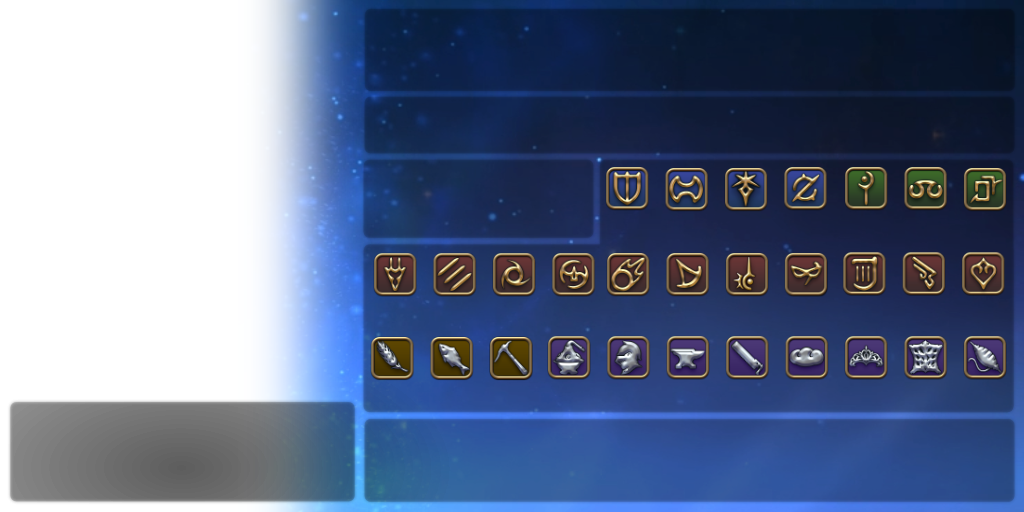
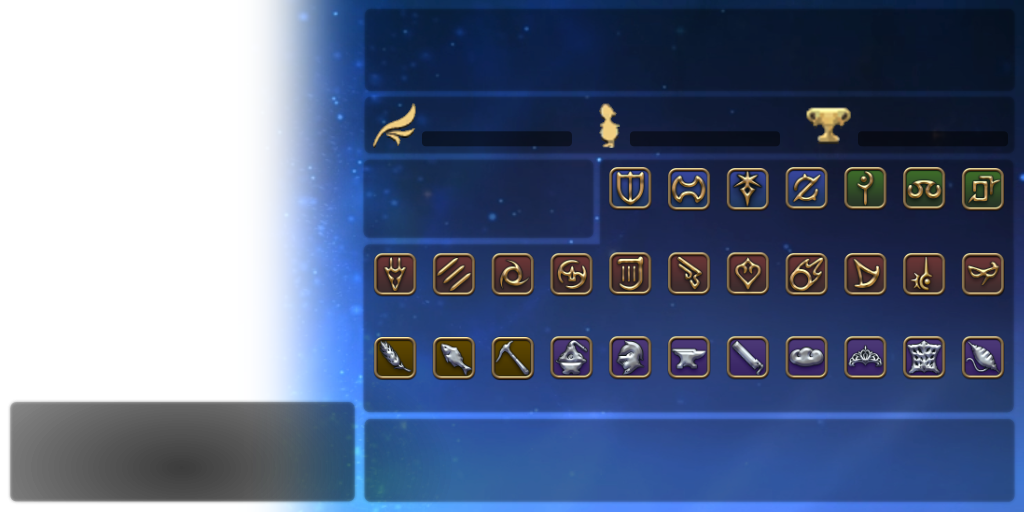
portrait progress

diff --git a/KupoNuts.Bot/Characters/PortraitDrawer.cs b/KupoNuts.Bot/Characters/PortraitDrawer.cs
@@ -2,6 +2,7 @@
 
 namespace KupoNuts.Bot.Characters
 {
+	using System;
 	using System.IO;
 	using System.Threading.Tasks;
 	using KupoNuts.Bot.Utils;
@@ -22,6 +23,13 @@ namespace KupoNuts.Bot.Characters
 			VerticalAlignment = VerticalAlignment.Center,
 		};
 
+		private static TextGraphicsOptions leftText = new TextGraphicsOptions()
+		{
+			Antialias = true,
+			HorizontalAlignment = HorizontalAlignment.Left,
+			VerticalAlignment = VerticalAlignment.Top,
+		};
+
 		private static FontCollection fonts = new FontCollection();
 		private static FontFamily axisRegular = fonts.Install(PathUtils.Current + "/Assets/Axis-Regular.ttf");
 		private static FontFamily optimuSemiBold = fonts.Install(PathUtils.Current + "/Assets/OptimusPrincepsSemiBold.ttf");
@@ -40,9 +48,46 @@ namespace KupoNuts.Bot.Characters
 			Image<Rgba32> finalImg = new Image<Rgba32>(1024, 512);
 			finalImg.Mutate(x => x.DrawImage(charImg, 1.0f));
 			finalImg.Mutate(x => x.DrawImage(overlayImg, 1.0f));
-			finalImg.Mutate(x => x.DrawText(centerText, character.Name, jupiterPro.CreateFont(45), Color.White, new PointF(182, 455)));
-			finalImg.Mutate(x => x.DrawText(centerText, character.Title?.Name, axisRegular.CreateFont(25), Color.White, new PointF(182, 420)));
-			finalImg.Mutate(x => x.DrawText(centerText, character.Race?.Name, axisRegular.CreateFont(22), Color.White, new PointF(182, 485)));
+
+			// Name / Bio
+			finalImg.Mutate(x => x.DrawTextAnySize(centerText, character.Name, optimuSemiBold, Color.White, new Rectangle(182, 450, 350, 50)));
+			finalImg.Mutate(x => x.DrawText(centerText, character.Title?.Name, axisRegular.CreateFont(22), Color.White, new PointF(182, 420)));
+			finalImg.Mutate(x => x.DrawText(centerText, character.Race?.Name + " (" + character.Tribe?.Name + ")", axisRegular.CreateFont(20), Color.White, new PointF(182, 485)));
+			finalImg.Mutate(x => x.DrawText(leftText, character.Bio, axisRegular.CreateFont(20), Color.White, new Rectangle(370, 425, 630, 74)));
+
+			// Jobs
+			finalImg.Mutate(x => x.DrawText(centerText, GetJob(character, Jobs.Paladin), axisRegular.CreateFont(20), Color.White, new PointF(631, 225)));
+			finalImg.Mutate(x => x.DrawText(centerText, GetJob(character, Jobs.Warrior), axisRegular.CreateFont(20), Color.White, new PointF(690, 225)));
+			finalImg.Mutate(x => x.DrawText(centerText, GetJob(character, Jobs.Darkknight), axisRegular.CreateFont(20), Color.White, new PointF(749, 225)));
+			finalImg.Mutate(x => x.DrawText(centerText, GetJob(character, Jobs.Gunbreaker), axisRegular.CreateFont(20), Color.White, new PointF(810, 225)));
+			finalImg.Mutate(x => x.DrawText(centerText, GetJob(character, Jobs.Whitemage), axisRegular.CreateFont(20), Color.White, new PointF(865, 225)));
+			finalImg.Mutate(x => x.DrawText(centerText, GetJob(character, Jobs.Scholar), axisRegular.CreateFont(20), Color.White, new PointF(925, 225)));
+			finalImg.Mutate(x => x.DrawText(centerText, GetJob(character, Jobs.Astrologian), axisRegular.CreateFont(20), Color.White, new PointF(985, 225)));
+			finalImg.Mutate(x => x.DrawText(centerText, GetJob(character, Jobs.Dragoon), axisRegular.CreateFont(20), Color.White, new PointF(395, 310)));
+			finalImg.Mutate(x => x.DrawText(centerText, GetJob(character, Jobs.Monk), axisRegular.CreateFont(20), Color.White, new PointF(454, 310)));
+			finalImg.Mutate(x => x.DrawText(centerText, GetJob(character, Jobs.Ninja), axisRegular.CreateFont(20), Color.White, new PointF(513, 310)));
+			finalImg.Mutate(x => x.DrawText(centerText, GetJob(character, Jobs.Samurai), axisRegular.CreateFont(20), Color.White, new PointF(572, 310)));
+			finalImg.Mutate(x => x.DrawText(centerText, GetJob(character, Jobs.Bard), axisRegular.CreateFont(20), Color.White, new PointF(631, 310)));
+			finalImg.Mutate(x => x.DrawText(centerText, GetJob(character, Jobs.Machinist), axisRegular.CreateFont(20), Color.White, new PointF(690, 310)));
+			finalImg.Mutate(x => x.DrawText(centerText, GetJob(character, Jobs.Dancer), axisRegular.CreateFont(20), Color.White, new PointF(749, 310)));
+			finalImg.Mutate(x => x.DrawText(centerText, GetJob(character, Jobs.Blackmage), axisRegular.CreateFont(20), Color.White, new PointF(810, 310)));
+			finalImg.Mutate(x => x.DrawText(centerText, GetJob(character, Jobs.Summoner), axisRegular.CreateFont(20), Color.White, new PointF(865, 310)));
+			finalImg.Mutate(x => x.DrawText(centerText, GetJob(character, Jobs.Redmage), axisRegular.CreateFont(20), Color.White, new PointF(925, 310)));
+			finalImg.Mutate(x => x.DrawText(centerText, GetJob(character, Jobs.Bluemage), axisRegular.CreateFont(20), Color.White, new PointF(985, 310)));
+			finalImg.Mutate(x => x.DrawText(centerText, GetJob(character, Jobs.Botanist), axisRegular.CreateFont(20), Color.White, new PointF(395, 395)));
+			finalImg.Mutate(x => x.DrawText(centerText, GetJob(character, Jobs.Fisher), axisRegular.CreateFont(20), Color.White, new PointF(454, 395)));
+			finalImg.Mutate(x => x.DrawText(centerText, GetJob(character, Jobs.Miner), axisRegular.CreateFont(20), Color.White, new PointF(513, 395)));
+			finalImg.Mutate(x => x.DrawText(centerText, GetJob(character, Jobs.Alchemist), axisRegular.CreateFont(20), Color.White, new PointF(572, 395)));
+			finalImg.Mutate(x => x.DrawText(centerText, GetJob(character, Jobs.Armorer), axisRegular.CreateFont(20), Color.White, new PointF(631, 395)));
+			finalImg.Mutate(x => x.DrawText(centerText, GetJob(character, Jobs.Blacksmith), axisRegular.CreateFont(20), Color.White, new PointF(690, 395)));
+			finalImg.Mutate(x => x.DrawText(centerText, GetJob(character, Jobs.Carpenter), axisRegular.CreateFont(20), Color.White, new PointF(749, 395)));
+			finalImg.Mutate(x => x.DrawText(centerText, GetJob(character, Jobs.Culinarian), axisRegular.CreateFont(20), Color.White, new PointF(810, 395)));
+			finalImg.Mutate(x => x.DrawText(centerText, GetJob(character, Jobs.Goldsmith), axisRegular.CreateFont(20), Color.White, new PointF(865, 395)));
+			finalImg.Mutate(x => x.DrawText(centerText, GetJob(character, Jobs.Leatherworker), axisRegular.CreateFont(20), Color.White, new PointF(925, 395)));
+			finalImg.Mutate(x => x.DrawText(centerText, GetJob(character, Jobs.Weaver), axisRegular.CreateFont(20), Color.White, new PointF(985, 395)));
+
+			// Server
+			finalImg.Mutate(x => x.DrawText(leftText, character.Server + " - " + character.DC, axisRegular.CreateFont(18), new Color(new Argb32(1f, 1f, 1f, 0.5f)), new PointF(40, 10)));
 
 			string outputPath = PathUtils.Current + "/Temp/" + character.ID + "_render.jpg";
 			finalImg.Save(outputPath);
@@ -52,6 +97,63 @@ namespace KupoNuts.Bot.Characters
 			finalImg.Dispose();
 
 			return outputPath;
+		}
+
+		private static string GetJob(Character character, Jobs job)
+		{
+			ClassJob? classJob = character.GetClassJob(job);
+
+			if (classJob == null)
+				return string.Empty;
+
+			return classJob.Level.ToString();
+		}
+
+		private static void DrawText(this IImageProcessingContext context, TextGraphicsOptions op, string text, Font font, Color color, Rectangle bounds)
+		{
+			op.WrapTextWidth = bounds.Width;
+
+			RendererOptions rOp = new RendererOptions(font);
+			rOp.WrappingWidth = bounds.Width;
+
+			bool fits = false;
+			while (!fits)
+			{
+				SizeF size = TextMeasurer.Measure(text, rOp);
+				fits = size.Height <= bounds.Height && size.Width <= bounds.Width;
+
+				if (!fits)
+				{
+					text = text.Truncate(text.Length - 5);
+				}
+			}
+
+			context.DrawText(op, text, font, color, new Point(bounds.X, bounds.Y));
+		}
+
+		private static void DrawTextAnySize(this IImageProcessingContext context, TextGraphicsOptions op, string text, FontFamily font, Color color, Rectangle bounds)
+		{
+			int fontSize = 64;
+			bool fits = false;
+			Font currentFont = font.CreateFont(fontSize);
+			while (!fits)
+			{
+				currentFont = font.CreateFont(fontSize);
+				SizeF size = TextMeasurer.Measure(text, new RendererOptions(currentFont));
+				fits = size.Height <= bounds.Height && size.Width <= bounds.Width;
+
+				if (!fits)
+				{
+					fontSize -= 2;
+				}
+
+				if (fontSize <= 2)
+				{
+					return;
+				}
+			}
+
+			context.DrawText(op, text, currentFont, color, new Point(bounds.X, bounds.Y));
 		}
 	}
 }
